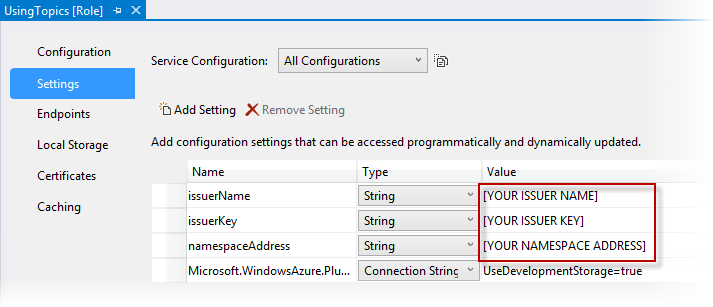
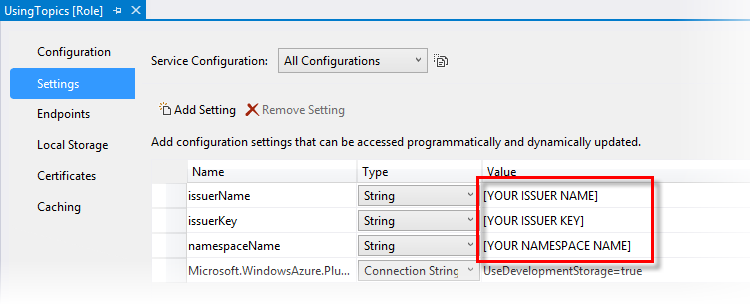
Namespace naming issue
Updated calls to RoleEnvironment.GetConfigurationSettingValue to use "namespaceName".
	Updated code snippets to reflect these changes.
	Regenerated code snippets.
	Updated related screenshots

diff --git a/HOLs/HOL-ServiceBusQueues/Source/Ex1-CreatingAQueue/End/UsingQueues/Controllers/HomeController.cs b/HOLs/HOL-ServiceBusQueues/Source/Ex1-CreatingAQueue/End/UsingQueues/Controllers/HomeController.cs
@@ -14,7 +14,7 @@ namespace UsingQueues.Controllers
 
         public HomeController()
         {
-            var baseAddress = RoleEnvironment.GetConfigurationSettingValue("namespaceAddress");
+            var baseAddress = RoleEnvironment.GetConfigurationSettingValue("namespaceName");
             var issuerName = RoleEnvironment.GetConfigurationSettingValue("issuerName");
             var issuerKey = RoleEnvironment.GetConfigurationSettingValue("issuerKey");
 

diff --git a/HOLs/HOL-ServiceBusQueues/Source/Ex2-InteractingwithServiceBusQueues/Begin/UsingQueues/Controllers/HomeController.cs b/HOLs/HOL-ServiceBusQueues/Source/Ex2-InteractingwithServiceBusQueues/Begin/UsingQueues/Controllers/HomeController.cs
@@ -14,7 +14,7 @@ namespace UsingQueues.Controllers
 
         public HomeController()
         {
-            var baseAddress = RoleEnvironment.GetConfigurationSettingValue("namespaceAddress");
+            var baseAddress = RoleEnvironment.GetConfigurationSettingValue("namespaceName");
             var issuerName = RoleEnvironment.GetConfigurationSettingValue("issuerName");
             var issuerKey = RoleEnvironment.GetConfigurationSettingValue("issuerKey");
 

diff --git a/HOLs/HOL-ServiceBusQueues/Source/Ex2-InteractingwithServiceBusQueues/End/UsingQueues/Controllers/HomeController.cs b/HOLs/HOL-ServiceBusQueues/Source/Ex2-InteractingwithServiceBusQueues/End/UsingQueues/Controllers/HomeController.cs
@@ -17,7 +17,7 @@ namespace UsingQueues.Controllers
 
         public HomeController()
         {
-            var baseAddress = RoleEnvironment.GetConfigurationSettingValue("namespaceAddress");
+            var baseAddress = RoleEnvironment.GetConfigurationSettingValue("namespaceName");
             var issuerName = RoleEnvironment.GetConfigurationSettingValue("issuerName");
             var issuerKey = RoleEnvironment.GetConfigurationSettingValue("issuerKey");
 

diff --git a/HOLs/HOL-ServiceBusQueues/Source/Ex3-TalkingacrossPlatformsandLanguageswithAMQP/Begin/UsingQueues/Controllers/HomeController.cs b/HOLs/HOL-ServiceBusQueues/Source/Ex3-TalkingacrossPlatformsandLanguageswithAMQP/Begin/UsingQueues/Controllers/HomeController.cs
@@ -17,7 +17,7 @@ namespace UsingQueues.Controllers
 
         public HomeController()
         {
-            var baseAddress = RoleEnvironment.GetConfigurationSettingValue("namespaceAddress");
+            var baseAddress = RoleEnvironment.GetConfigurationSettingValue("namespaceName");
             var issuerName = RoleEnvironment.GetConfigurationSettingValue("issuerName");
             var issuerKey = RoleEnvironment.GetConfigurationSettingValue("issuerKey");
 

diff --git a/HOLs/HOL-ServiceBusQueues/Source/Ex3-TalkingacrossPlatformsandLanguageswithAMQP/End/UsingQueues/Controllers/HomeController.cs b/HOLs/HOL-ServiceBusQueues/Source/Ex3-TalkingacrossPlatformsandLanguageswithAMQP/End/UsingQueues/Controllers/HomeController.cs
@@ -19,7 +19,7 @@ namespace UsingQueues.Controllers
 
         public HomeController()
         {
-            var baseAddress = RoleEnvironment.GetConfigurationSettingValue("namespaceAddress");
+            var baseAddress = RoleEnvironment.GetConfigurationSettingValue("namespaceName");
             var issuerName = RoleEnvironment.GetConfigurationSettingValue("issuerName");
             var issuerKey = RoleEnvironment.GetConfigurationSettingValue("issuerKey");
 

diff --git a/HOLs/HOL-ServiceBusTopics/Source/Ex1-CreatingATopicAndAddingSubscriptions/End/UsingTopics/Controllers/HomeController.cs b/HOLs/HOL-ServiceBusTopics/Source/Ex1-CreatingATopicAndAddingSubscriptions/End/UsingTopics/Controllers/HomeController.cs
@@ -14,7 +14,7 @@
 
         public HomeController()
         {
-            var baseAddress = RoleEnvironment.GetConfigurationSettingValue("namespaceAddress");
+            var baseAddress = RoleEnvironment.GetConfigurationSettingValue("namespaceName");
             var issuerName = RoleEnvironment.GetConfigurationSettingValue("issuerName");
             var issuerKey = RoleEnvironment.GetConfigurationSettingValue("issuerKey");
 

diff --git a/HOLs/HOL-ServiceBusTopics/Source/Ex2-SendingAndReceivingMessages/Begin/UsingTopics/Controllers/HomeController.cs b/HOLs/HOL-ServiceBusTopics/Source/Ex2-SendingAndReceivingMessages/Begin/UsingTopics/Controllers/HomeController.cs
@@ -14,7 +14,7 @@
 
         public HomeController()
         {
-            var baseAddress = RoleEnvironment.GetConfigurationSettingValue("namespaceAddress");
+            var baseAddress = RoleEnvironment.GetConfigurationSettingValue("namespaceName");
             var issuerName = RoleEnvironment.GetConfigurationSettingValue("issuerName");
             var issuerKey = RoleEnvironment.GetConfigurationSettingValue("issuerKey");
 

diff --git a/HOLs/HOL-ServiceBusTopics/Source/Ex2-SendingAndReceivingMessages/End/UsingTopics/Controllers/HomeController.cs b/HOLs/HOL-ServiceBusTopics/Source/Ex2-SendingAndReceivingMessages/End/UsingTopics/Controllers/HomeController.cs
@@ -16,7 +16,7 @@
 
         public HomeController()
         {
-            var baseAddress = RoleEnvironment.GetConfigurationSettingValue("namespaceAddress");
+            var baseAddress = RoleEnvironment.GetConfigurationSettingValue("namespaceName");
             var issuerName = RoleEnvironment.GetConfigurationSettingValue("issuerName");
             var issuerKey = RoleEnvironment.GetConfigurationSettingValue("issuerKey");
 

diff --git a/HOLs/HOL-ServiceBusTopics/Source/Ex3-UsingSubscriptionRules/Begin/UsingTopics/Controllers/HomeController.cs b/HOLs/HOL-ServiceBusTopics/Source/Ex3-UsingSubscriptionRules/Begin/UsingTopics/Controllers/HomeController.cs
@@ -16,7 +16,7 @@
 
         public HomeController()
         {
-            var baseAddress = RoleEnvironment.GetConfigurationSettingValue("namespaceAddress");
+            var baseAddress = RoleEnvironment.GetConfigurationSettingValue("namespaceName");
             var issuerName = RoleEnvironment.GetConfigurationSettingValue("issuerName");
             var issuerKey = RoleEnvironment.GetConfigurationSettingValue("issuerKey");
 

diff --git a/HOLs/HOL-ServiceBusTopics/Source/Ex3-UsingSubscriptionRules/End/UsingTopics/Controllers/HomeController.cs b/HOLs/HOL-ServiceBusTopics/Source/Ex3-UsingSubscriptionRules/End/UsingTopics/Controllers/HomeController.cs
@@ -16,7 +16,7 @@
 
         public HomeController()
         {
-            var baseAddress = RoleEnvironment.GetConfigurationSettingValue("namespaceAddress");
+            var baseAddress = RoleEnvironment.GetConfigurationSettingValue("namespaceName");
             var issuerName = RoleEnvironment.GetConfigurationSettingValue("issuerName");
             var issuerKey = RoleEnvironment.GetConfigurationSettingValue("issuerKey");
 

diff --git a/HOLs/HOL-ServiceBusQueues/HOL.md b/HOLs/HOL-ServiceBusQueues/HOL.md
@@ -189,7 +189,7 @@ In this task, you will learn how to use the **Mircosoft.ServiceBus.NamespaceMana
  
 	_Launching the service configuration editor_
 
-1. In the **Settings** tab, set _namespaceAddress_ value to the name of your Service Bus namespace, and set the _issuerName_ and _issuerKey_ values to the ones you previously copied from the [Windows Azure Management Portal](http://go.microsoft.com/fwlink/?LinkID=129428).
+1. In the **Settings** tab, set _namespaceName_ value to the name of your Service Bus namespace, and set the _issuerName_ and _issuerKey_ values to the ones you previously copied from the [Windows Azure Management Portal](http://go.microsoft.com/fwlink/?LinkID=129428).
 
 	![Updating settings to the UsingQueues Web Role](Images/updating-settings-to-the-usingqueues-web-role.png?raw=true "Updating settings to the UsingQueues Web Role")
 
@@ -203,7 +203,7 @@ In this task, you will learn how to use the **Mircosoft.ServiceBus.NamespaceMana
 
 1. Open the **HomeController.cs** file under the **Controllers** folder in the **UsingQueues** project.
 
-1. Add the following namespace directives to declare the Service Bus and the Windows Azure supporting assemblies, and a reference to the **Models** namespace of the Web project, which you will use in the next tasks.
+1. Add the following namespace directives to declare the Service Bus and the Windows Azure supporting assemblies.
 
 	(Code Snippet - _Service Bus Messaging - Ex01 - Adding Namespace Directives_ - CS)
 
@@ -230,7 +230,7 @@ In this task, you will learn how to use the **Mircosoft.ServiceBus.NamespaceMana
 	````C#
 	public HomeController()
 	{
-	    var baseAddress = RoleEnvironment.GetConfigurationSettingValue("namespaceAddress");
+	    var baseAddress = RoleEnvironment.GetConfigurationSettingValue("namespaceName");
 	    var issuerName = RoleEnvironment.GetConfigurationSettingValue("issuerName");
 	    var issuerKey = RoleEnvironment.GetConfigurationSettingValue("issuerKey");
 	
@@ -295,7 +295,7 @@ You will now launch the updated application in the Windows Azure Compute Emulato
  
 	_Configuring StartUp Project_
 
-1. Press **F5** to launch the application. The browser will show the default page of the application.
+1. Press **F5** to launch the application. The browser will show the default page of the application (note that the queue you created in the previous task is displayed under **Queue Explorer**).
 
  	![UsingQueues Application Home Page](Images/usingqueues-application-home-page.png?raw=true "UsingQueues Application Home Page")
  
@@ -390,7 +390,7 @@ In this task, you learn how to write a message to a queue. You can send any seri
 	````C#
 	public HomeController()
 	{
-		var baseAddress = RoleEnvironment.GetConfigurationSettingValue("namespaceAddress");
+		var baseAddress = RoleEnvironment.GetConfigurationSettingValue("namespaceName");
 		var issuerName = RoleEnvironment.GetConfigurationSettingValue("issuerName");
 		var issuerKey = RoleEnvironment.GetConfigurationSettingValue("issuerKey");
 
@@ -639,7 +639,7 @@ In this task you will update the solution you created in last exercise to suppor
 	````C#
 	public HomeController()
 	{
-		var baseAddress = RoleEnvironment.GetConfigurationSettingValue("namespaceAddress");
+		var baseAddress = RoleEnvironment.GetConfigurationSettingValue("namespaceName");
 		var issuerName = RoleEnvironment.GetConfigurationSettingValue("issuerName");
 		var issuerKey = RoleEnvironment.GetConfigurationSettingValue("issuerKey");
 

diff --git a/HOLs/HOL-ServiceBusTopics/HOL.md b/HOLs/HOL-ServiceBusTopics/HOL.md
@@ -193,7 +193,7 @@ In this task, you will learn how to use the **Mircosoft.ServiceBus.NamespaceMana
  
     _Launching the Service Configuration editor_
 
-1. In the **Settings** tab, set _namespaceAddress_ value to the name of your Service Bus namespace, and set the _issuerName_ and _issuerKey_ values to the ones you previously copied from the [Windows Azure Management Portal](http://go.microsoft.com/fwlink/?LinkID=129428).
+1. In the **Settings** tab, set _namespaceName_ value to the name of your Service Bus namespace, and set the _issuerName_ and _issuerKey_ values to the ones you previously copied from the [Windows Azure Management Portal](http://go.microsoft.com/fwlink/?LinkID=129428).
 
 	![Updating settings to the UsingTopics web role](Images/updating-settings-to-the-usingtopics-web-role.png?raw=true)
 
@@ -201,7 +201,7 @@ In this task, you will learn how to use the **Mircosoft.ServiceBus.NamespaceMana
 
 1. Press **CTRL + S** to save the changes to the Web Role configuration.
 
-1. Next, you will add the required assemblies to the **ASP.NET MVC 5** Web project to connect to Windows Azure Service Bus from your application. In **Solution Explorer**, right-click the **UsingTopics** project node and select **Add Reference.**
+1. Next, you will add the required assemblies to the **ASP.NET MVC 5** Web project to connect to **Windows Azure Service Bus** from your application. In **Solution Explorer**, right-click the **UsingTopics** project node and select **Add | Reference...**.
 
 1. In the **Reference Manager** dialog box, check the **System.Runtime.Serialization** assembly. Then, select the **Extensions** assemblies from the left pane, check **Microsoft.ServiceBus** and ensure **Microsoft.WindowsAzure.ServiceRuntime** is checked as well. Click **OK** to add the references.
 
@@ -231,7 +231,7 @@ In this task, you will learn how to use the **Mircosoft.ServiceBus.NamespaceMana
 	````C#
 	public HomeController()
 	{
-		 var baseAddress = RoleEnvironment.GetConfigurationSettingValue("namespaceAddress");
+		 var baseAddress = RoleEnvironment.GetConfigurationSettingValue("namespaceName");
 		 var issuerName = RoleEnvironment.GetConfigurationSettingValue("issuerName");
 		 var issuerKey = RoleEnvironment.GetConfigurationSettingValue("issuerKey");
 
